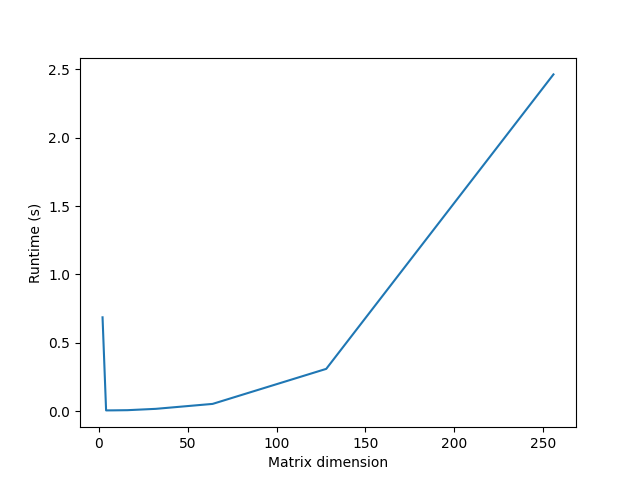
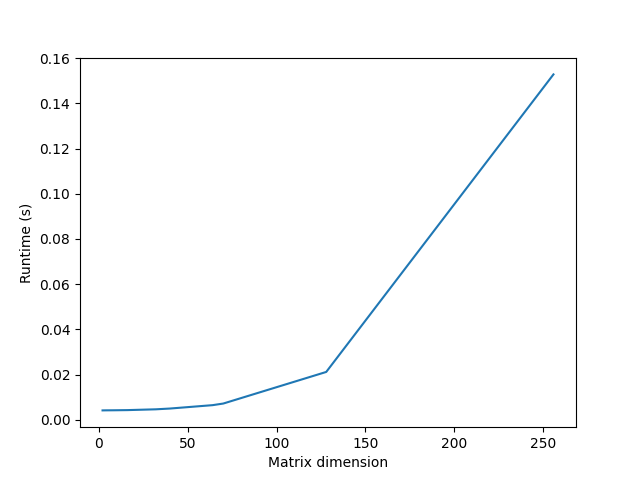
add runtime

diff --git a/Projects/matmul_pt/main.py b/Projects/matmul_pt/main.py
@@ -2,6 +2,7 @@ from torch.utils.cpp_extension import load
 import torch
 import time
 import matplotlib.pyplot as plt
+import numpy as np
 
 from torch.utils.cpp_extension import load
 matmul_cuda = load(
@@ -11,11 +12,11 @@ matmul_cuda = load(
 T = 256    # Number of threads
 TB = 1     # Number of thread blocks
 runtimes = []
-shapes = [2,4,8,16,32,64,128,256]
+shapes =    [32,64,128,256]
 
 for n in shapes:
-    A = torch.rand(n, n).cuda()   # Create random n x n matrix 
-    B = torch.rand(n).cuda()      # Create random n-dim vector
+    A = torch.rand(n).cuda()   # Create random n x n matrix 
+    B = torch.rand(n,n).cuda()      # Create random n-dim vector
     
     start = time.time()
     for i in range(100): 
@@ -32,12 +33,11 @@ plt.savefig('runtimes_matrix_vector.png')
 plt.figure()
 avg_error = 0
 runtimes = []
-shapes = [2,4,8,16,32,64,128,256]
+shapes = [100,2,4,8,16,32,40,64,70,128,256]
 
 for n in shapes:
     A = torch.ones((n, n)).cuda()   # Create random n x n matrix 
     B = torch.ones((n, n)).cuda()      # Create random n-dim vector
-    B[0][1] = 100
     error = 0
     start = time.time()
     for i in range(100): 
@@ -48,61 +48,77 @@ for n in shapes:
     runtimes.append(end - start)
     
 print("Average Error of Matrix Multiplication is: ", avg_error.item()/len(shapes))
-plt.plot(shapes, runtimes)
+plt.plot(shapes[1:], runtimes[1:])
 plt.xlabel('Matrix dimension')
 plt.ylabel('Runtime (s)')
 plt.savefig('runtimes_matrix_matrix.png')
 
 # Exercise 4
 
-# T = 256    # Number of threads
-# TB_values = [2,4,8,16,32,64,128,256]     # Number of thread blocks
-# runtimes = [[] for _ in range(len(TB_values))]   # List of runtimes for each TB value
-# shapes = [2,4,8,16,32,64,128,256]
+T = 256    # Number of threads
+TB_values = [2,4,8,16,32,64,128,256]     # Number of thread blocks
+runtimes = [[] for _ in range(len(TB_values))]   # List of runtimes for each TB value
+shapes = [2,4,8,16,32,64,128,256]
 
-# for i, TB in enumerate(TB_values):
-#     for n in shapes:
-#         A = torch.rand(n, n).cuda()   # Create random n x n matrix 
-#         B = torch.rand(n).cuda()      # Create random n-dim vector
+for i, TB in enumerate(TB_values):
+    for n in shapes:
+        A = torch.rand(n).cuda()   # Create random n x n matrix 
+        B = torch.rand(n, n).cuda()      # Create random n-dim vector
 
-#         start = time.time()
-#         for i in range(100): 
-#             C = matmul_cuda.parallelMatMul(A, B, T, TB)    # Matrix multiplication
-#         end = time.time()
-#         runtimes[i].append(end - start)
+        start = time.time()
+        for j in range(100): 
+            C = matmul_cuda.parallelMatMul(A, B, T, TB)    # Matrix multiplication
+        end = time.time()
+        runtimes[i].append(end - start)
     
-# for i, TB in enumerate(TB_values):
-#     plt.plot(shapes, runtimes[i], label=f'TB={TB}')
-# plt.xlabel('Matrix dimension')
-# plt.ylabel('Runtime (s)')
-# plt.legend()
-# plt.savefig('runtimes_matrix_vector_ex4.png')
-# #====================================================================================
+fig, axes = plt.subplots(nrows=2, ncols=4, figsize=(18, 6))
+plt.subplots_adjust(left=0.1, bottom=0.1, right=0.9, top=0.9, wspace=0.4, hspace=0.4)
 
-# T = 256    # Number of threads
-# TB_values = [2,4,8,16,32,64,128,256]     # Number of thread blocks
-# runtimes = [[] for _ in range(len(TB_values))]   # List of runtimes for each TB value
-# shapes = [2,4,8,16,32,64,128,256]
-# avg_error = 0
+# Flatten axes array for easy iteration
+axes_flat = np.array(axes).flatten()
 
-# for i, TB in enumerate(TB_values):
-#     for n in shapes:
-#         A = torch.rand(n, n).cuda()   # Create random n x n matrix 
-#         B = torch.rand(n, n).cuda()      # Create random n-dim vector
-#         error = 0
-#         start = time.time()
-#         for i in range(100): 
-#             C = matmul_cuda.parallelMatMul(A, B, T, TB)    # Matrix multiplication
-#             error += torch.mean(A@B - C)
-#         avg_error += error/100
-#         end = time.time()
-#         runtimes[i].append(end - start)
+for i, (TB, ax) in enumerate(zip(TB_values, axes_flat)):
+    ax.plot(shapes, runtimes[i], label=f'TB={TB}')
+    ax.set_xlabel('Matrix dimension')
+    ax.set_ylabel('Runtime (s)')
+    ax.set_title(f'Thread Blocks: {TB}')
+    ax.legend()
+
+plt.savefig('runtimes_matrix_vector_ex4_multiple_subplots.png')
+#====================================================================================
+
+T = 256    # Number of threads
+TB_values = [2,4,8,16,32,64,128,256]     # Number of thread blocks
+runtimes = [[] for _ in range(len(TB_values))]   # List of runtimes for each TB value
+shapes = [2,4,8,16,32,64,128,256]
+avg_error = 0
+
+for i, TB in enumerate(TB_values):
+    for n in shapes:
+        A = torch.rand(n, n).cuda()   # Create random n x n matrix 
+        B = torch.rand(n, n).cuda()      # Create random n-dim vector
+        error = 0
+        start = time.time()
+        for j in range(100): 
+            C = matmul_cuda.parallelMatMul(A, B, T, TB)    # Matrix multiplication
+            error += torch.mean(A@B - C)
+        avg_error += error/100
+        end = time.time()
+        runtimes[i].append(end - start)
     
-# for i, TB in enumerate(TB_values):
-#     plt.plot(shapes, runtimes[i], label=f'TB={TB}')
-# plt.xlabel('Matrix dimension')
-# plt.ylabel('Runtime (s)')
-# plt.legend()
-# plt.savefig('runtimes_matrix_matrix_ex4.png')
+fig, axes = plt.subplots(nrows=2, ncols=4, figsize=(18, 6))
+plt.subplots_adjust(left=0.1, bottom=0.1, right=0.9, top=0.9, wspace=0.4, hspace=0.4)
+# Flatten axes array for easy iteration
+axes_flat = np.array(axes).flatten()
 
-# print("Average Error of Matrix Multiplication is: ", avg_error.item()/len(shapes))
+for i, (TB, ax) in enumerate(zip(TB_values, axes_flat)):
+    ax.plot(shapes, runtimes[i], label=f'TB={TB}')
+    ax.set_xlabel('Matrix dimension')
+    ax.set_ylabel('Average Error')
+    ax.set_title(f'Thread Blocks: {TB}')
+    ax.legend()
+
+plt.savefig('runtimes_matrix_matrix_ex4_multiple_subplots.png')
+plt.show()
+
+print("Average Error of Matrix Multiplication is: ", avg_error.item()/len(shapes))

diff --git a/Projects/matmul_pt/README.md b/Projects/matmul_pt/README.md
@@ -1,0 +1,10 @@
+## Installation
+Please install PyTorch with cuda by using following command
+```bash
+pip3 install -r requirements.txt
+```
+## Usage
+Since I'm using JIT compiler, you need to run the code once to compile the model. After that, you can use the model as a normal python function.
+```python
+python3 main.py
+```
